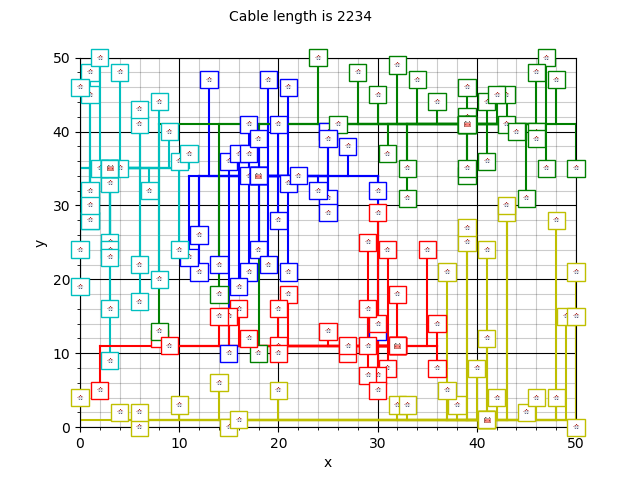
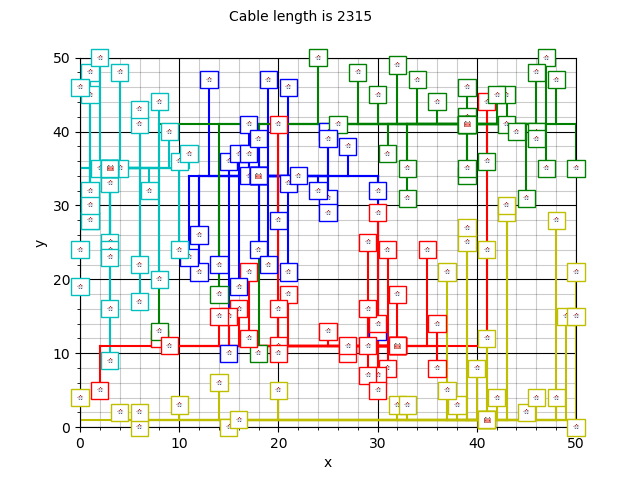
Say cheese!

diff --git a/switcher.py b/switcher.py
@@ -1,0 +1,82 @@
+def switching_algorithm(batteries, houses):
+	print "#############################"
+	
+	makeroom = sorted(batteries, key=lambda battery: battery.spare_voltage)[4]
+	fill = sorted(batteries, key=lambda battery: battery.spare_voltage)[3]
+	print("Ruimte naar batterij {} spare voltage {}".format(makeroom.name, makeroom.spare_voltage))
+	print("Ruimte van batterij {} spare voltage {}".format(fill.name, fill.spare_voltage))
+	
+	picked_houses = pick_a_house(houses, batteries, makeroom, fill, 99999999)
+	small_house = picked_houses[0]
+	big_house = picked_houses[1]
+
+	for battery in batteries:
+		if battery.name == big_house.battery_no:
+			battery.spare_voltage += big_house.voltage - small_house.voltage
+		
+		if battery.name == small_house.battery_no:
+			battery.spare_voltage -= big_house.voltage - small_house.voltage
+	
+	temp = small_house.battery_no
+	small_house.battery_no = big_house.battery_no
+	big_house.battery_no = temp
+	
+	for house in houses:
+		if house.placed == False:
+			print house.voltage
+			print makeroom.spare_voltage
+			if makeroom.add_house(house):
+				print "HOORAY!"
+			else:
+				print "Stop me if I go crazy!"
+				switching_algorithm(batteries, houses)
+				
+				
+	return [batteries, houses]
+	
+def pick_a_house(houses, batteries, makeroom, fill, last_try):
+	print last_try
+	
+	big_house = 0
+	for house in houses:
+		if house.battery_no == makeroom.name:
+			if big_house == 0 and house.voltage < last_try:
+				big_house = house
+			elif big_house.voltage < house.voltage and house.voltage < last_try:
+				big_house = house
+				
+	print("Big huis {} batterij {} voltage {} xy {}, {}".format(big_house.id, big_house.battery_no, big_house.voltage, big_house.x, big_house.y))
+	print(big_house.voltage - fill.spare_voltage)
+	
+	small_house = 999999
+	for house in houses:
+		#if house.battery_no == fill.name:
+		#	print house.voltage
+		
+		if house.battery_no == fill.name and house.voltage > big_house.voltage - fill.spare_voltage:
+			if small_house == 999999:
+				small_house = house
+			elif small_house.voltage > house.voltage:
+				small_house = house
+	
+	if small_house == 999999:
+		print "Let's do this again!"
+		picked_houses = pick_a_house(houses, batteries, makeroom, fill, big_house.voltage)
+		small_house = picked_houses[0]
+		big_house = picked_houses[1]
+		
+	print("Small huis {} batterij {} voltage {} xy {}, {} ".format(small_house.id, small_house.battery_no, small_house.voltage, small_house.x, small_house.y))
+	
+	return [small_house, big_house]
+
+
+	
+	
+	
+	
+	
+	
+	
+	
+	
+

diff --git a/SanneBatterijOriented.py b/SanneBatterijOriented.py
@@ -47,7 +47,7 @@ class Battery:
 # HOUSE PART
 # download the raw house data in a list			
 xyvolt= []
-with open('Wijk_informatie/wijk1_huizen.csv', 'rb') as csvfile:
+with open('Wijk_informatie/wijk3_huizen.csv', 'rb') as csvfile:
 	reader = csv.reader(csvfile, delimiter = ',')
 	i = 0
 	for row in reader:
@@ -67,7 +67,7 @@ for i in range(0, len(xyvolt)):
 # BATERY PART
 # download the raw battery data in a list		
 raw_battery = []
-file =  open('Wijk_informatie/wijk1_batterijen.txt', 'r')
+file =  open('Wijk_informatie/wijk3_batterijen.txt', 'r')
 for line in file: 
 	if(line.split("\t")[0] != "pos"):
 		list_string = line.split("\t")[0]
@@ -85,7 +85,7 @@ for i in range(0, len(raw_battery)):
 	batteries[i].add_name(i + 1)
 	print("Battery {} on index {} has x = {}".format(batteries[i].name, i, batteries[i].x))
 
-batteries = sorted(batteries, key=lambda battery: battery.y)
+batteries = sorted(batteries, key=lambda battery: battery.x)
 houses = sorted(houses, key=lambda house: house.id)
 
 distance0list = []

diff --git a/SortingAlgorithm.py b/SortingAlgorithm.py
@@ -7,6 +7,7 @@ def sorting_algorithm(batteries, houses, sort_battery, sort_house):
 	
 	# link houses and batteries
 	housenumber = 0
+	solution = True
 	for house in houses:
 		unplaced = True
 		i = 0
@@ -15,11 +16,12 @@ def sorting_algorithm(batteries, houses, sort_battery, sort_house):
 				unplaced = False
 				print "House {} is connected to battery {} voltage {}".format(housenumber, house.battery_no, house.voltage)
 			i+=1
-			if i > 4:
+			if i > 4 and unplaced == True:
+				solution = False
 				break
 		housenumber+=1
 		
 	for i in range(0,5):
 		print batteries[i].spare_voltage
 	print houses[149].voltage
-	return [batteries, houses]
+	return [batteries, houses, solution]
